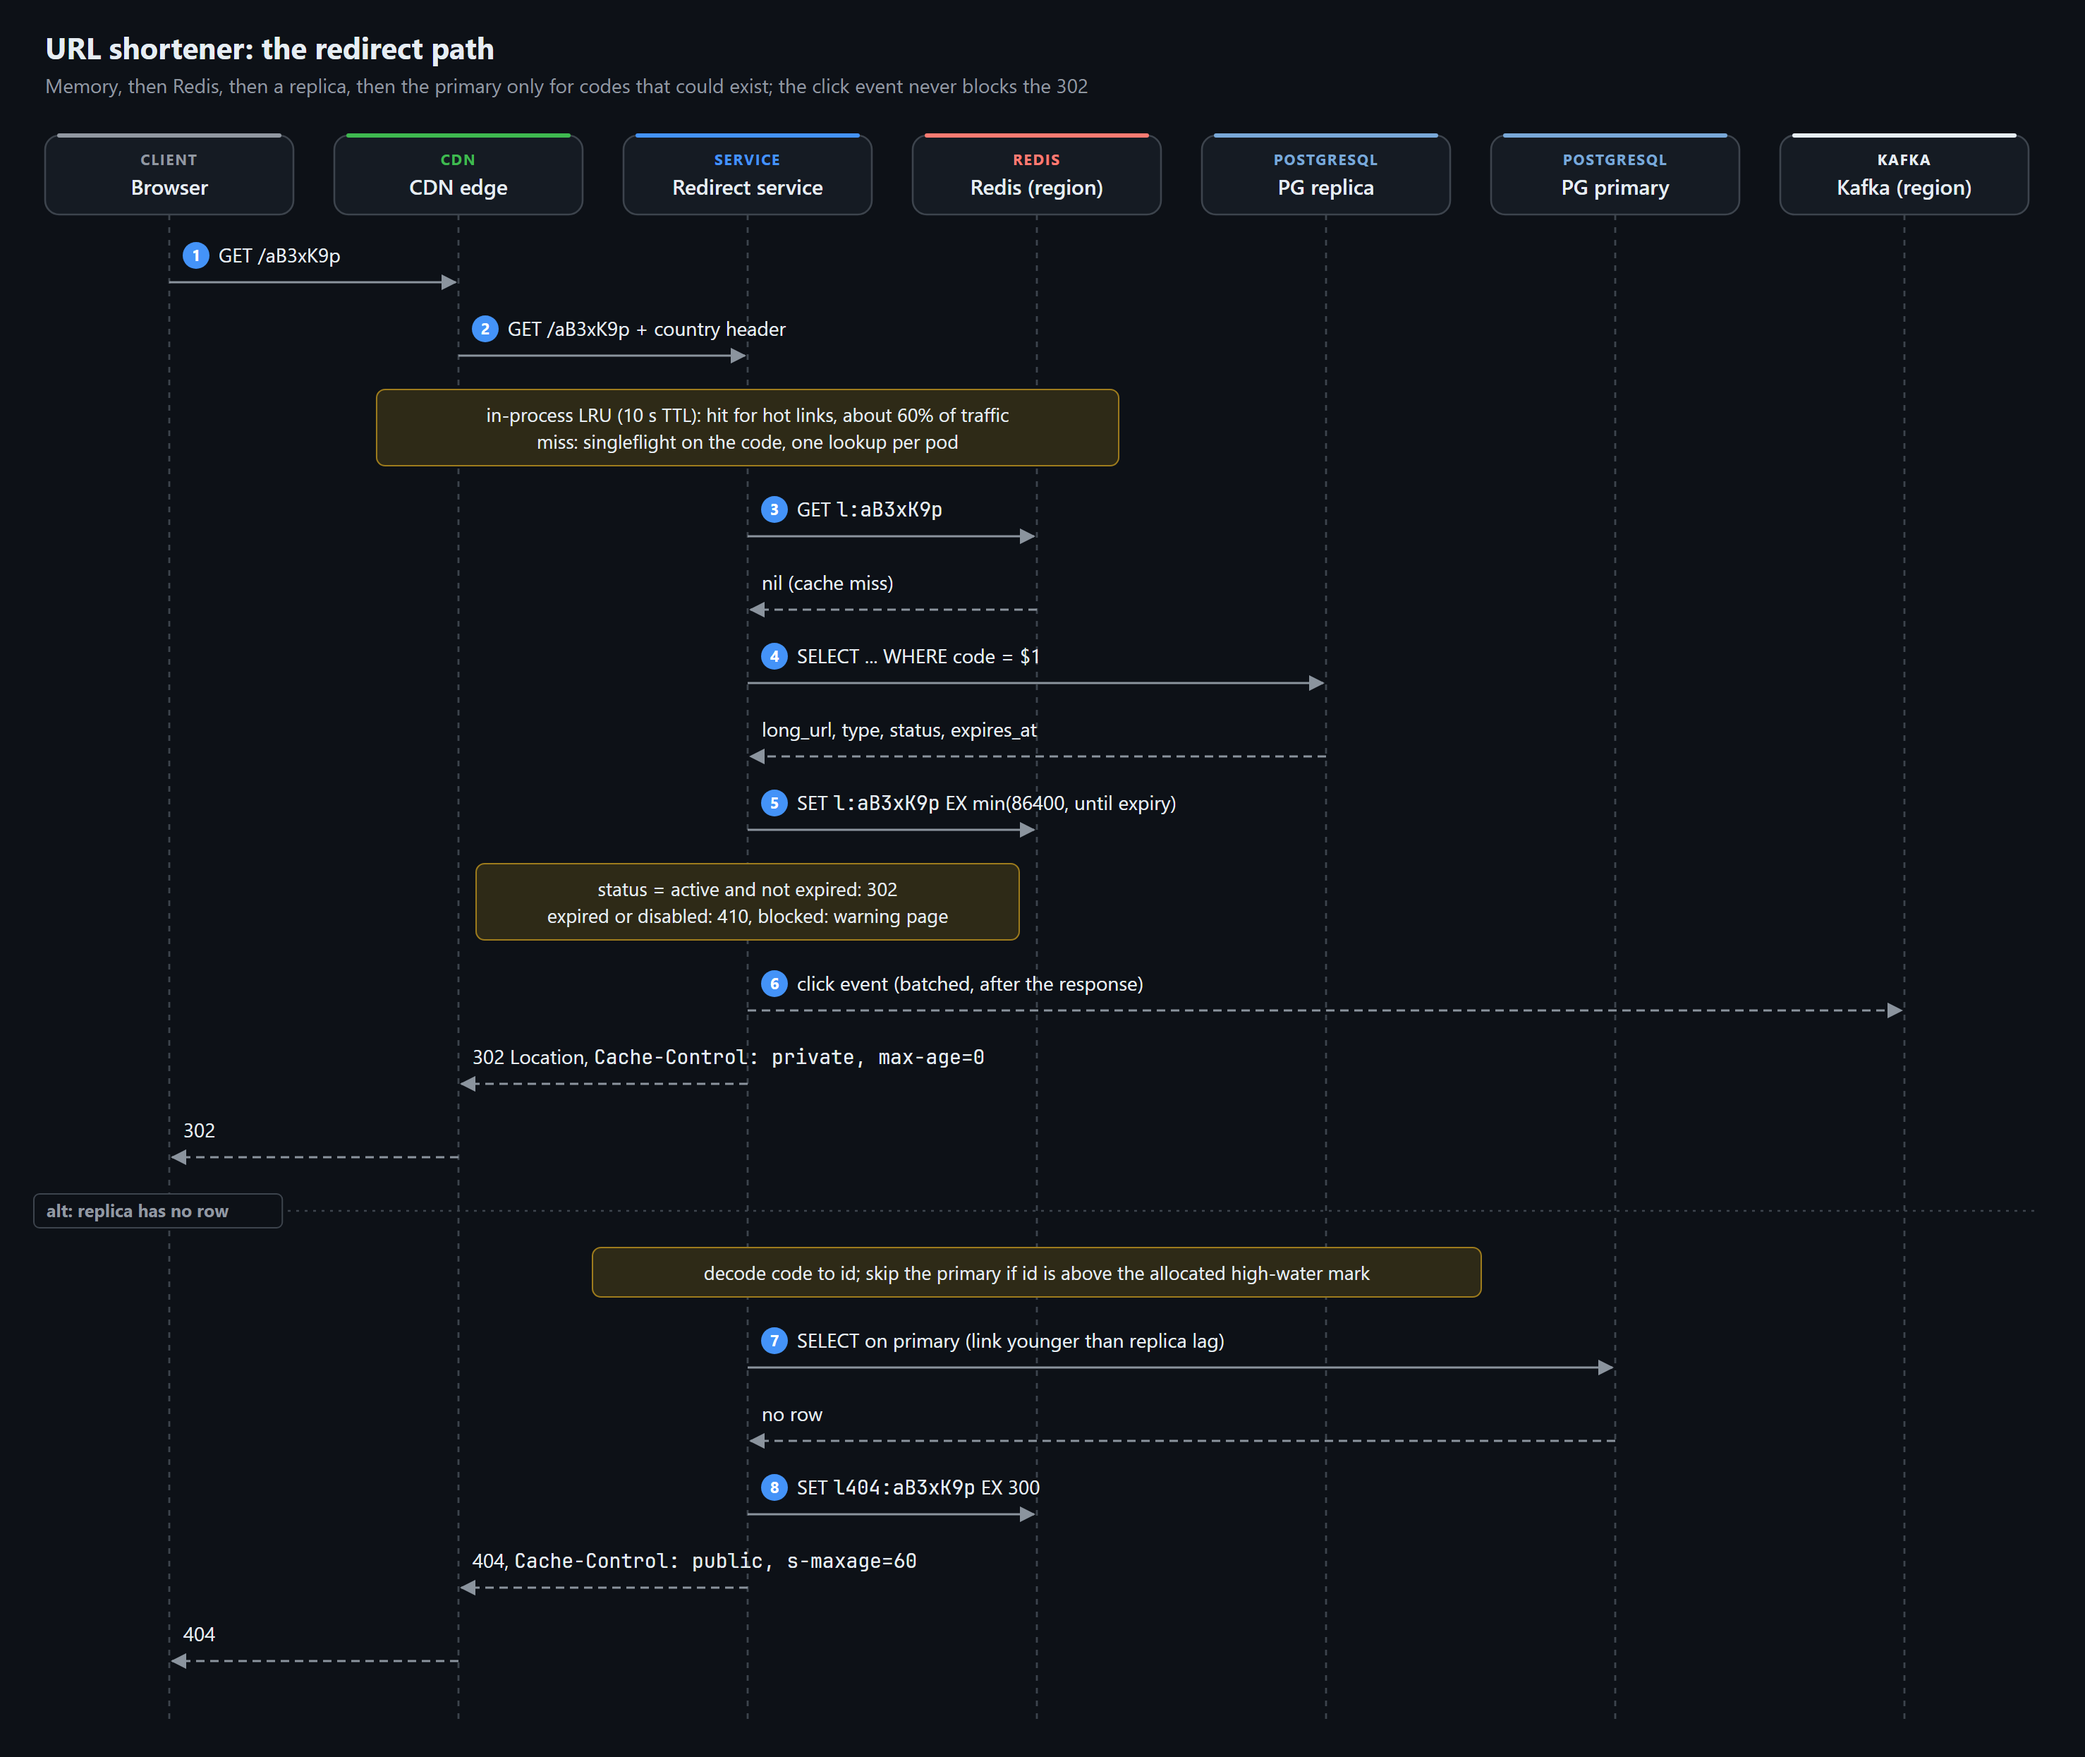
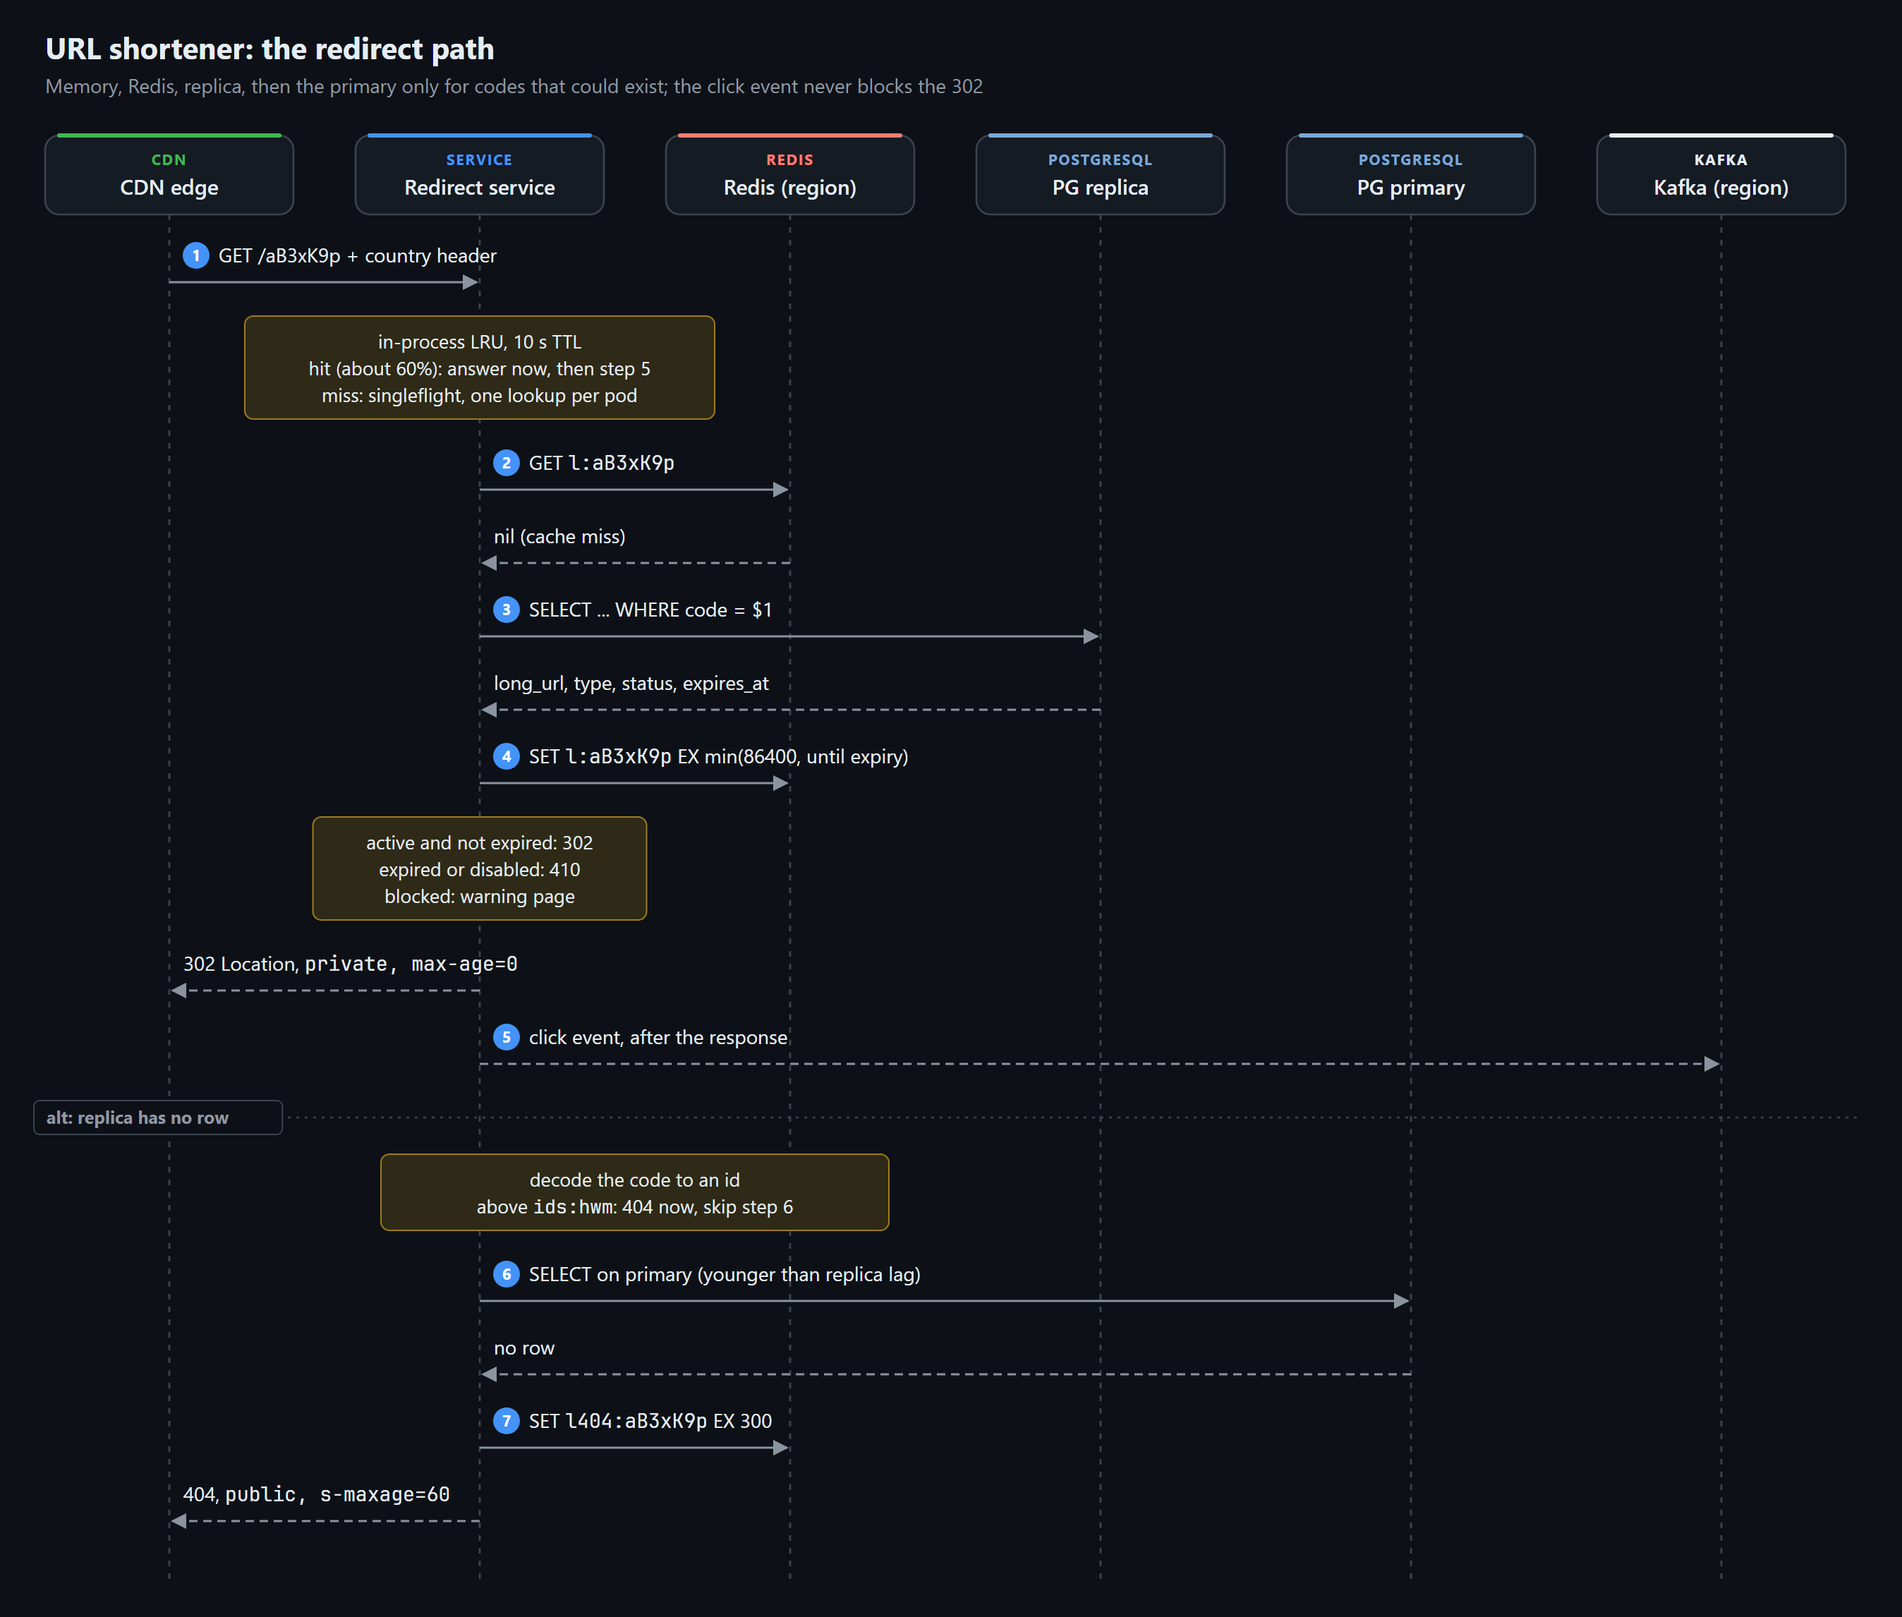
Draw the URL shortener flows as sequence diagrams

diff --git a/designs/foundations/url-shortener/README.md b/designs/foundations/url-shortener/README.md
@@ -212,48 +212,55 @@ consumer away.
 
 **Create a link**
 
-1. The CDN routes `POST /api/v1/links` to the home region. The API authenticates the caller and checks
-   `rl:create:{owner_id}:{minute}`.
-2. It normalizes the URL (scheme and host lower-cased, default port dropped, IDN to punycode) and runs the
-   synchronous checks from section 7.4. A rejected URL returns 422 before anything is written.
-3. `BEGIN; INSERT INTO create_requests ... ON CONFLICT DO NOTHING`. Zero rows means a retry: read the
-   stored code, compare `request_hash`, return the same 201 (or 422). A concurrent duplicate waits on
-   the primary key until the first transaction commits, so it sees the stored row too.
-4. Generated code: take the next id from the pod's local block (a new block costs one
-   `SELECT nextval('link_id_blocks')`), permute it, encode it, `INSERT INTO links`. Custom alias:
-   `INSERT ... ON CONFLICT (code) DO NOTHING`; zero rows means `ROLLBACK` and 409.
-5. `COMMIT`, then return 201. The API also writes `l:{code}` into the home region's Redis, so the
-   owner's first test click is a hit.
-6. Debezium publishes the insert to `links.cdc`. Every regional invalidator deletes a stale
-   `l404:{code}` if a scanner probed the alias before it existed, and the abuse scanner queues a scan.
+<picture>
+  <source media="(prefers-color-scheme: dark)" srcset="diagrams/create-flow-dark.png">
+  <img alt="Sequence: the client posts a link with an Idempotency-Key; the API checks the rate limit in Redis, runs the URL checks, inserts the idempotency row and the link in one PostgreSQL transaction, commits, warms Redis and returns 201. CDC then carries the insert through Kafka to the abuse scanner and the regional cache invalidators." src="diagrams/create-flow-light.png">
+</picture>
+
+1. The CDN routes `POST /api/v1/links` to the home region API.
+2. Rate limit per owner in Redis, then URL normalization and the synchronous checks from section 7.4.
+3. Insert the idempotency row. Zero rows means a retry: return the stored code. A concurrent duplicate
+   waits on the primary key and then sees the stored row.
+4. Insert the link: a generated code from the pod's id block (section 7.1) or the custom alias. A taken
+   alias rolls back with 409.
+5. Commit. Both rows exist or neither does.
+6. Warm `l:{code}` in the home region's Redis, then return 201.
+7. Debezium publishes the insert to `links.cdc`.
+8. The abuse scanner queues a scan; the invalidators clear any stale `l404:{code}`.
 
 **Redirect**
 
 <picture>
   <source media="(prefers-color-scheme: dark)" srcset="diagrams/redirect-flow-dark.png">
-  <img alt="Sequence: the browser asks the CDN, the CDN asks the redirect service, which checks its in-process cache, then Redis, then the read replica, fills Redis, returns a 302 and sends the click event to Kafka afterwards. If the replica has no row, it checks the primary only when the code decodes to an allocated id, then negative-caches the 404." src="diagrams/redirect-flow-light.png">
+  <img alt="Sequence: the CDN edge forwards the request to the redirect service, which checks its in-process cache, then Redis, then the read replica, fills Redis, returns a 302 and sends the click event to Kafka afterwards. If the replica has no row, it checks the primary only when the code decodes to an allocated id, then negative-caches the 404." src="diagrams/redirect-flow-light.png">
 </picture>
 
-1. The browser resolves `s.example` to the nearest CDN edge and sends `GET /aB3xK9p`.
-2. The edge forwards to the nearest region over a pooled keep-alive connection, adding the country header.
-3. The pod checks its in-process LRU. A hit (about 60% of traffic, all of it hot links) answers in
-   microseconds.
-4. On a miss it reads `l:aB3xK9p` from Redis (about 38% of traffic, ~0.5 ms).
-5. On a Redis miss it queries the replica by primary key and fills Redis with a TTL of 24 hours or the
-   time left until `expires_at`, whichever is shorter. Concurrent misses for one code share one query.
-6. It checks `status` and `expires_at` and returns 302, 301, 410 or the warning page.
-7. After the response is flushed it appends the click event to the producer buffer. The producer sends
-   batches every 20 ms; the request never waits for Kafka.
-8. If the replica has no row, the pod decides whether the primary is worth asking (section 7.2), asks it
-   if so, and otherwise writes `l404:{code}` and returns 404.
+1. The edge nearest the user forwards `GET /aB3xK9p` to the nearest region with a country header. The pod
+   checks its in-process LRU first; about 60% of redirects end there.
+2. On a miss, Redis (about 38% of traffic, ~0.5 ms).
+3. On a Redis miss, the replica by primary key. Concurrent misses for one code share one query.
+4. Fill Redis with a TTL of 24 hours or the time left until `expires_at`, whichever is shorter, then
+   answer 302, 301, 410 or the warning page.
+5. After the response is flushed, the click event goes to the producer buffer. The request never waits
+   for Kafka.
+6. If the replica has no row and the code could exist (section 7.2), ask the primary.
+7. Still nothing: write `l404:{code}` and return 404.
 
 **Edit or takedown**
 
-1. The API (or the scanner) runs `UPDATE links SET ..., version = version + 1 WHERE code = $1 AND version = $2`.
-2. Debezium publishes the change to `links.cdc`, keyed by `code`.
-3. Each region's invalidator deletes `l:{code}` and, for a 301 link, purges the CDN URL.
-4. Pods still holding the old entry in memory drop it within 10 seconds. End-to-end staleness is about
-   CDC lag (1 to 2 s) plus the local TTL, so roughly 12 seconds at p99.
+<picture>
+  <source media="(prefers-color-scheme: dark)" srcset="diagrams/edit-flow-dark.png">
+  <img alt="Sequence: the owner sends a PATCH with If-Match; the API runs a versioned UPDATE on the primary and returns 200. CDC carries the change through Kafka to the invalidator in each region, which deletes the Redis key. The abuse scanner uses the same UPDATE with status blocked." src="diagrams/edit-flow-light.png">
+</picture>
+
+1. The owner sends `PATCH` with `If-Match` on the current version.
+2. One versioned `UPDATE`. Zero rows means someone else edited first: 412.
+3. Debezium publishes the change to `links.cdc`, keyed by `code`.
+4. Each region's invalidator receives it.
+5. The invalidator deletes `l:{code}` (and purges the CDN URL for a 301 link). Pods drop their memory copy
+   within 10 seconds, so the change is live everywhere in about 12 seconds at p99.
+
+A takedown by the abuse scanner is the same `UPDATE` with `status = 'blocked'`; steps 3 to 5 do not change.
 
 ## 7. Deep dives
 
@@ -269,8 +276,22 @@ every link by counting.
 | Counter blocks | each pod takes 10,000 ids from a sequence, encodes them | Sequential codes leak volume and let anyone enumerate links, unless scrambled |
 | Snowflake-style 64-bit | time + machine + sequence | 11 base62 characters, too long for a short link |
 
-**Choice: counter blocks plus a keyed permutation.** The pod takes block `n` with one `nextval`, hands out
-ids `n * 10000` to `n * 10000 + 9999` from memory, and turns each id into a code like this:
+**Choice: counter blocks plus a keyed permutation.**
+
+<picture>
+  <source media="(prefers-color-scheme: dark)" srcset="diagrams/id-generation-dark.png">
+  <img alt="Sequence: the create handler asks the pod's in-memory id block for the next id; when the block is used up, the block takes a new range with one nextval on PostgreSQL. The handler permutes the id with a 40-bit Feistel network, encodes it as 7 base62 characters and inserts the link. On the redirect side a pod decodes a code back to an id and compares it with the high-water mark." src="diagrams/id-generation-light.png">
+</picture>
+
+1. The create handler asks the pod's in-memory block for the next id.
+2. Once per 10,000 links the block is empty and takes a new range with one `nextval`.
+3. The id goes through a 4-round, 40-bit Feistel permutation keyed with `KEY`.
+4. The result is written as base62 and left-padded to 7 characters.
+5. The insert cannot hit a conflict, because a permutation never maps two ids to one code.
+6. On the redirect side, any 7-character code decodes back to an id, which section 7.2 uses to skip the
+   primary for codes that were never issued.
+
+The encode path in code:
 
 ```python
 def code_for(id_: int) -> str:
@@ -437,15 +458,26 @@ add-on.
   `blocked_domains` (held in memory, refreshed every minute); our own domain and other shorteners rejected,
   because redirect chains hide the destination; a Safe Browsing-style hash-prefix list held in memory.
   New and guest accounts get tighter rate limits.
-- **After creation, asynchronously:** the scanner consumes `links.cdc`, fetches the destination from a
-  sandbox following up to 5 redirects, checks the final URL and page signals against reputation services,
-  and writes `status = 'blocked'` with `WHERE code = $1 AND version = $2`. Scans are idempotent on
-  `(code, version)`; an edit bumps the version and triggers a new scan.
+- **After creation, asynchronously:** the scan below. Scans are idempotent on `(code, version)`; an edit
+  bumps the version and triggers a new scan.
 - **Later:** destinations change after the scan (bait and switch), so active links are rescanned every
   30 days, and any link whose clicks jump past 1,000 a minute gets an immediate rescan. User reports go to
   a review queue.
 - **Serving a blocked link:** the redirect returns a warning page with no `Location` header. The row stays,
   so the code cannot be recycled for a new victim.
+
+<picture>
+  <source media="(prefers-color-scheme: dark)" srcset="diagrams/abuse-scan-dark.png">
+  <img alt="Sequence: the abuse scanner reads a new or edited link from links.cdc, has a sandbox fetch the destination following redirects, checks the final URL with reputation services, and on a bad verdict runs a versioned UPDATE setting status blocked on the primary. CDC then carries the change back through Kafka to the cache invalidators." src="diagrams/abuse-scan-light.png">
+</picture>
+
+1. The scanner reads an insert or edit from `links.cdc`, with `code`, `version` and `long_url`.
+2. A sandboxed fetcher loads the destination, following up to 5 redirects.
+3. The final URL and domain go to reputation services.
+4. A bad verdict becomes `UPDATE links SET status = 'blocked' WHERE code = $1 AND version = $2`. Zero rows
+   means the link was edited meanwhile, and that newer version already has its own scan queued.
+5. The update flows out through CDC like any edit, and every region drops the link within about
+   15 seconds.
 
 ## 8. Failure cases
 
